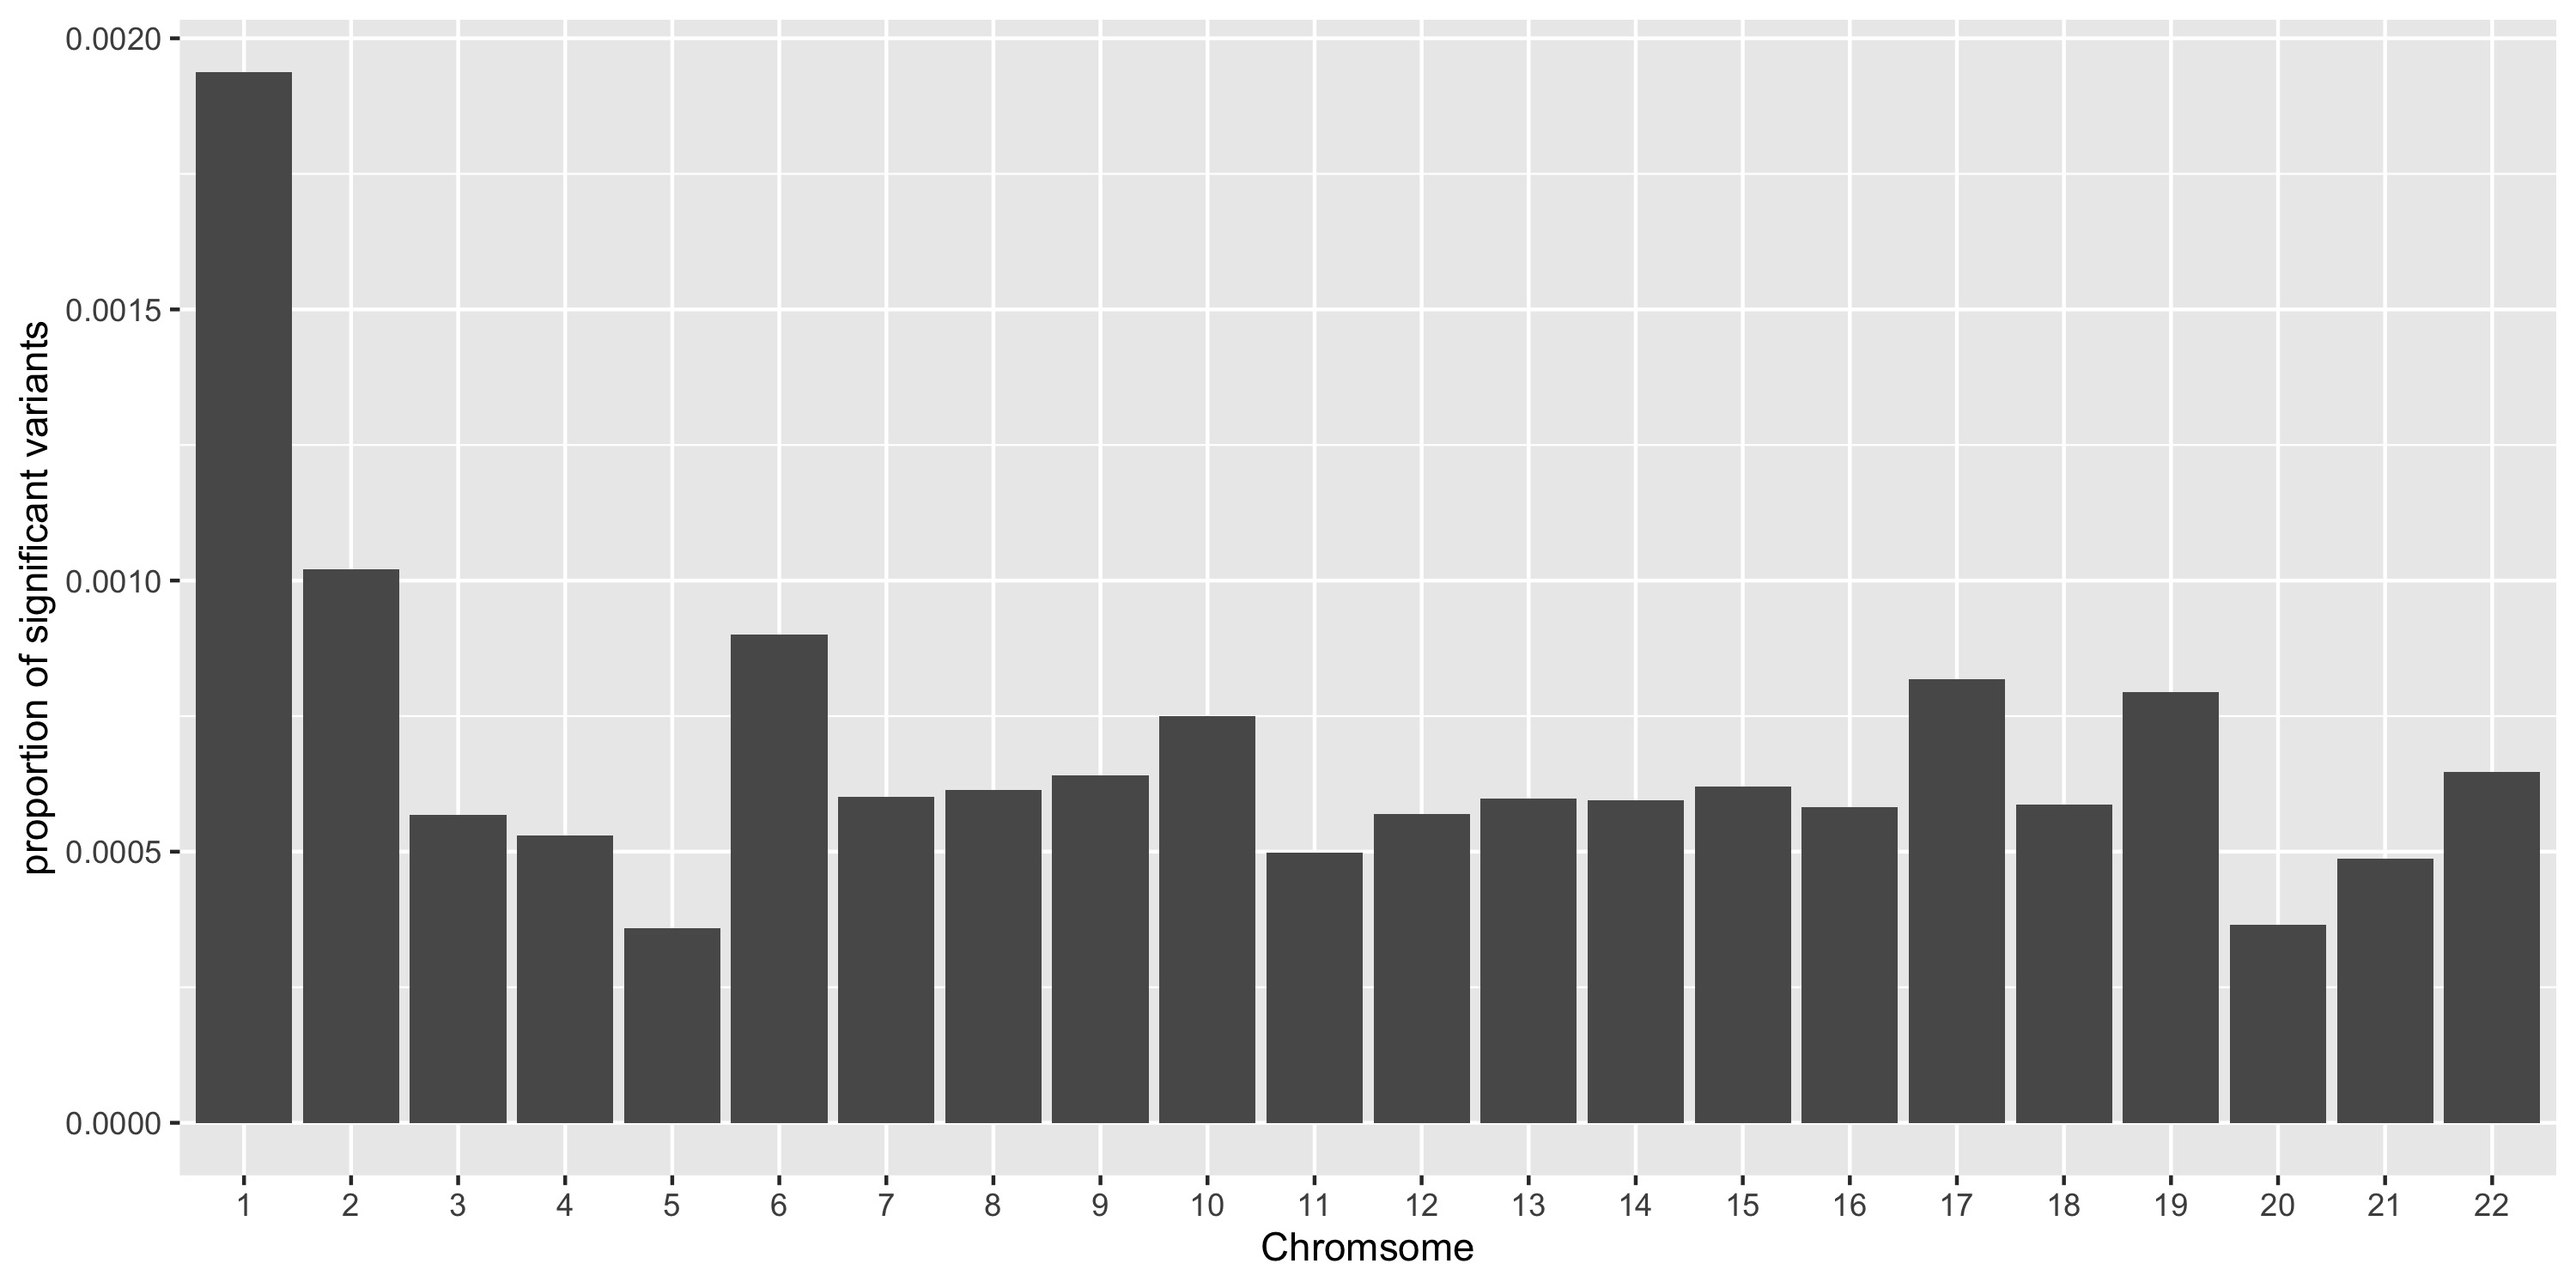
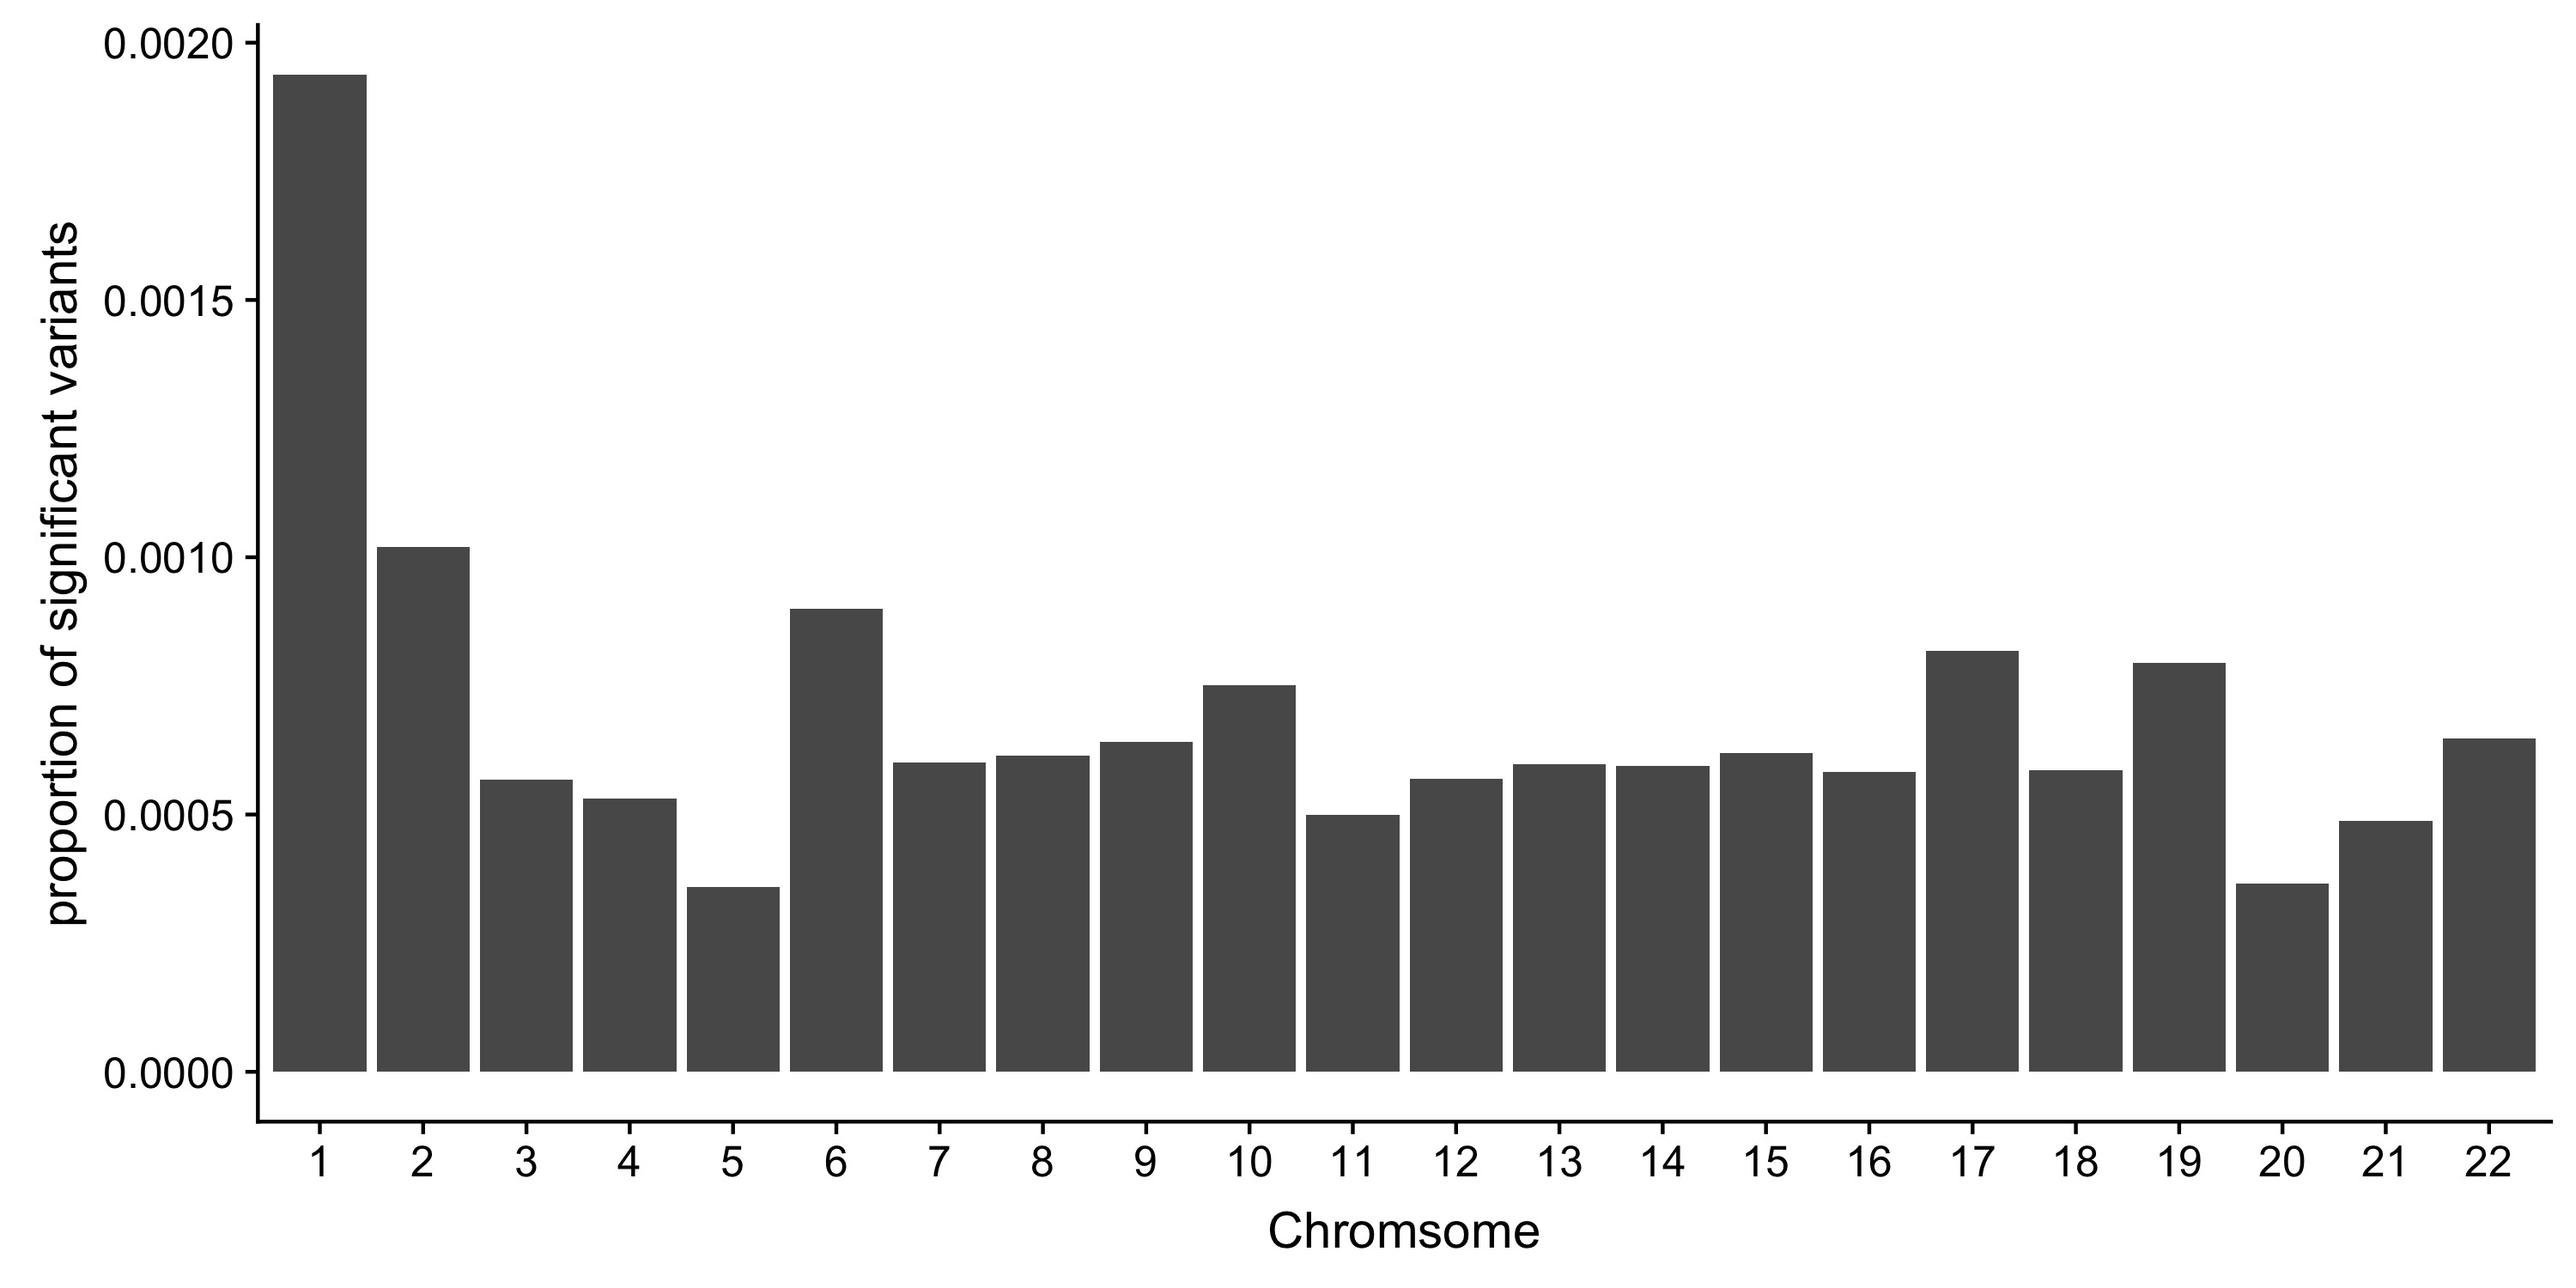
cleaned up supplementary figures

diff --git a/LatexManuscript/legacy.tex b/LatexManuscript/legacy.tex
@@ -453,12 +453,9 @@ In these plots we are comparing the deviance from the null model in the 15,270 v
 \begin{figure}
 \includegraphics[width=\hsize,keepaspectratio]{../Figures/SNPOverlap6.jpg}
 
-\caption{Variants associated with average quality of mapped bases $Q$ in more than one population.
-The size of the vertical bars ( I ) are proportional to the -log10(p) value of that SNP.
-The x axis is ranked by the frequency of occurrence of a SNP, then by genomic position.
-Phase 1 populations are marked by a star ( * ).
-The line plot underneath shows the number of populations for which a variant has reached significance.
-The populations that tend to have the most individuals with low $Q$ also tend to have the most variants associated to $Q$.}
+\caption{Comparing results from the single population tests, we find 812 variants independently associated with average quality of mapped bases $Q$ in more than one population.
+\textbf{A} For each population, we plot the number of variants associated to at least one other population.
+\textbf{B} The number of populations for which a variant has reached significance.}
   \label{OverLap}
 \end{figure}
 
@@ -490,9 +487,10 @@ There are 23,111  variants ( 55\% ) that are $Q$-associated but not LD-associate
 \begin{figure}[tbp]
 \centering
 \includegraphics[width=15cm,keepaspectratio]{../Figures/VariantDensity.jpg}
-\caption{The number of $Q$-associated variants per 10kb window across the genome.
+\caption{\textbf{A} The number of $Q$-associated variants per 10kb window across the genome.
 Grey bars indicate regions within and black bars indicate regions outside the 1000 Genomes Project strict mask.
-One region not flagged by the 1000 Genomes Project strict mask in chromosome 17 has more than 10 variants per window.}  
+One region not flagged by the 1000 Genomes Project strict mask in chromosome 17 has more than 10 variants per window.
+\textbf{B} Distribution of variant counts per 10kb window. Where variants that fail the strict mask are in grey and those that pass are in black. }  
 \label{VariantDensity}
 \end{figure}
 
